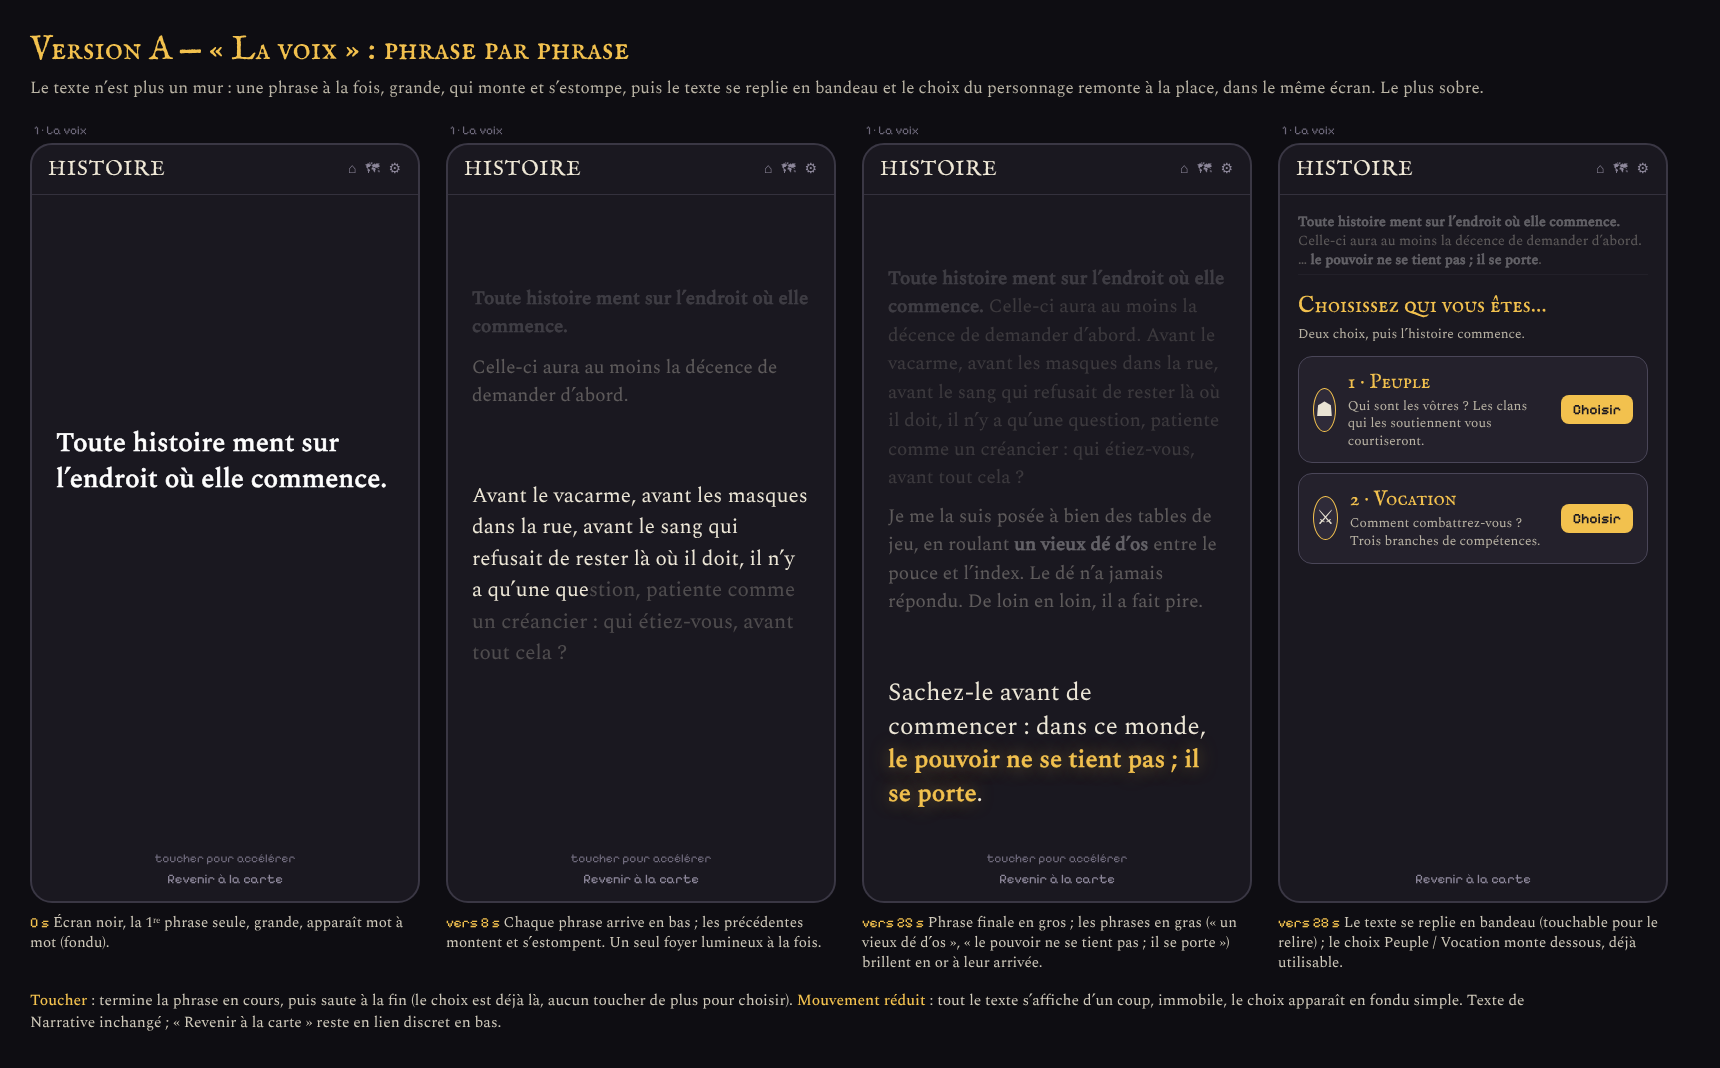
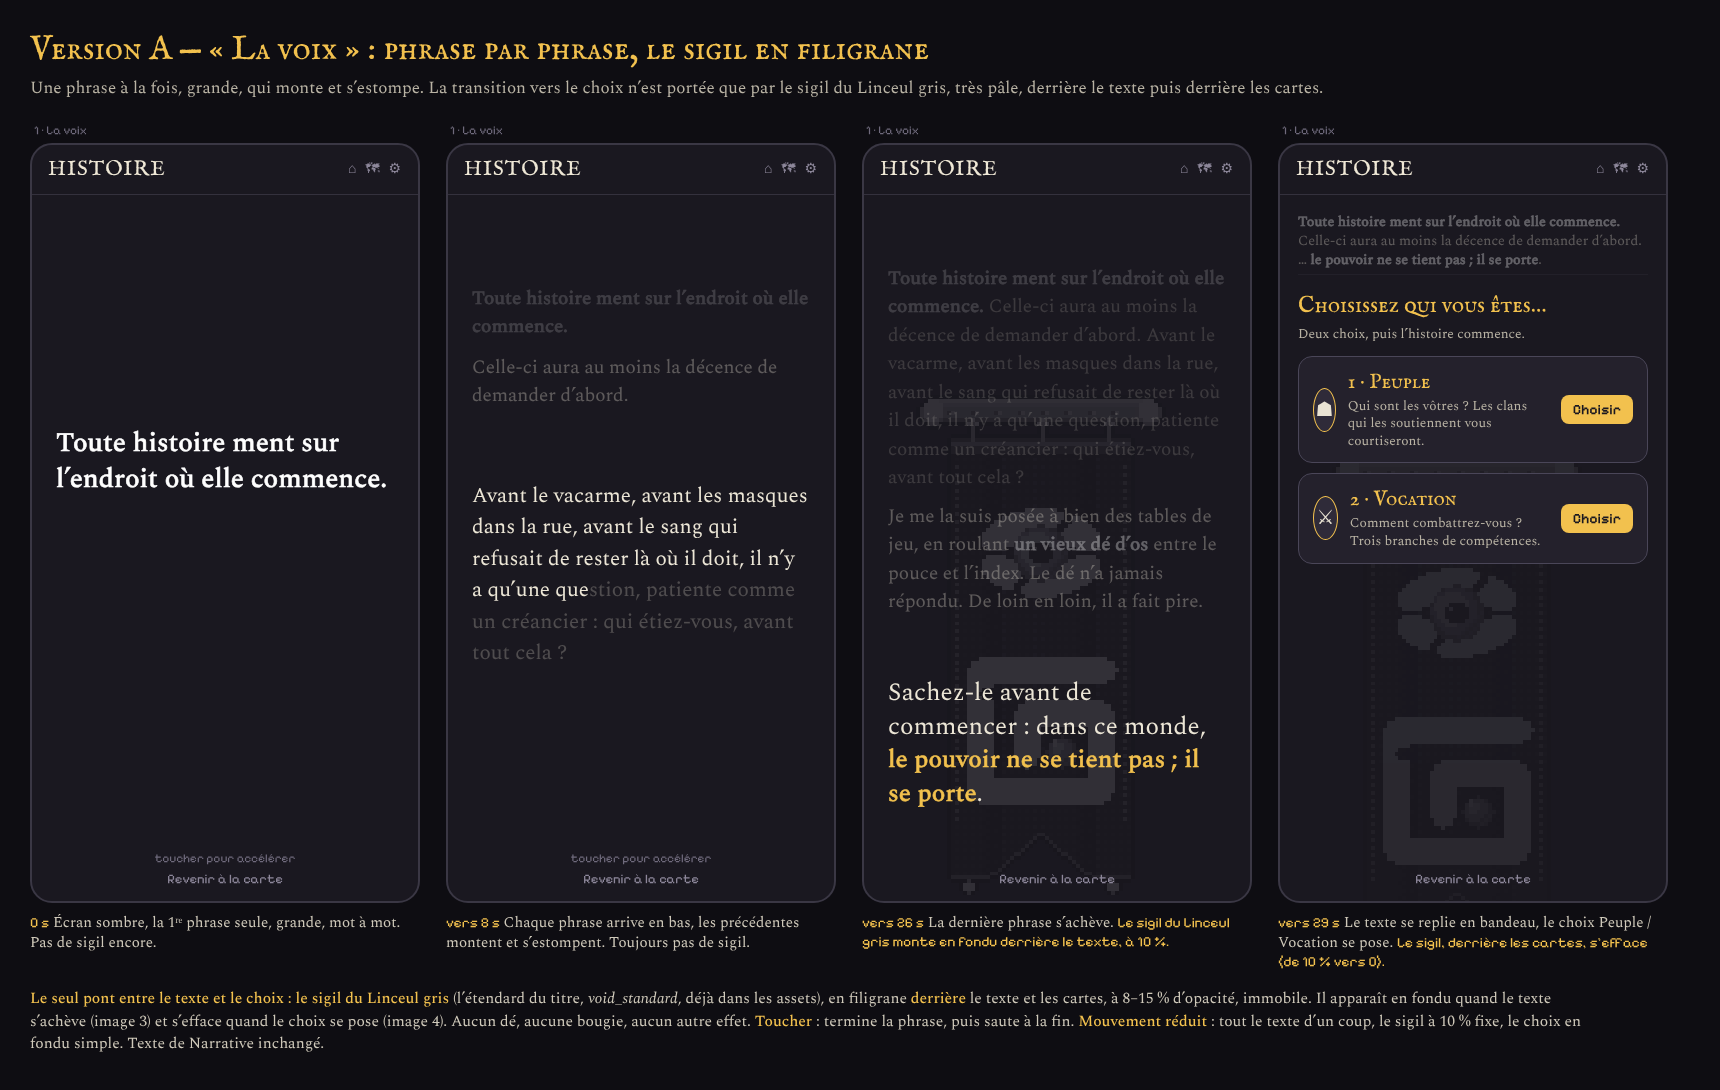
Prologue storyboards round 2: the Shroud's sigil as the only transition (pictures and notes)
Claude-Session: https://claude.ai/code/session_019ETFw2Y7wpHSXWG5mmACty

diff --git a/docs/proposals/prologue-animation.md b/docs/proposals/prologue-animation.md
@@ -1,24 +1,36 @@
-# The opening scene as an animation: three storyboards (UX-2, pictures only)
+# The opening scene as an animation: three storyboards, round 2 (UX-2, pictures only)
 
 The user wants the wall of text of the first scene (`docs/feedback/prologue-text-screen.jpg`)
 replaced by an animation where the text arrives directly and flows into the character choice.
-Pictures: `docs/ux-shots/prologue-animation/storyboard-A.png`, `-B.png`, `-C.png` (four frames each,
-phone width, French). Narrative's words and the bold phrases (un vieux dé d'os; le pouvoir ne se
-tient pas ; il se porte) are unchanged; no shorter lines are needed.
+Round 2 applies the user's feedback: "transition with only the sigil of the Shroud with low
+opacity like a whisper behind." Pictures: `docs/ux-shots/prologue-animation/storyboard-A.png`,
+`-B.png`, `-C.png` (four frames each, phone width, French). Narrative's words and the bold
+phrases are unchanged; no shorter lines are needed.
 
-Common to all: about 28 s if not skipped. A tap finishes the sentence being shown; a second tap
-jumps to the end. The Peuple / Vocation choice is on screen and usable at the end, no extra tap.
-Reduced motion: all the text at once, still, and the choice appears with a simple fade.
-"Revenir à la carte" stays as a quiet link at the bottom.
+**The only transition effect: the Grey Shroud's sigil.** I used the title's own standard
+(`assets/visuals/banners/void_standard.png`, `titleBannerId`: an eye above a spiral), the
+existing mark of the game's title; no new art. If the user means another mark, only the image
+changes. It sits BEHIND the text and the cards, still, desaturated, 8-15 % opacity (10-12 % at
+its peak): it fades in as the last sentence finishes (frame 3) and fades out as the choice
+settles (frame 4). No die, candle or other effect carries the transition.
 
-**A, "La voix".** One large sentence at a time, arriving word by word; earlier sentences rise and
-dim. The bold phrases glow gold as they arrive. At the end the text folds into a strip at the top
-(tap to reread) and the choice rises beneath it. The most sober.
+Common to all: about 29 s if not skipped. A tap finishes the sentence being shown; a second tap
+jumps to the end. The Peuple / Vocation choice is usable at the end, no extra tap. Reduced
+motion: all the text at once, the sigil still at 10 %, the choice with a simple fade.
+"Revenir à la carte" stays as a quiet link.
 
-**B, "Le dé d'os".** The text arrives word by word at the foot of the screen. At "un vieux dé d'os"
-a die rolls across and lands; it stays lit under the last sentence, then splits into the two
-cards, Peuple and Vocation. The most identity; more tuning (the die's path, sound if wanted).
+**A, "La voix".** One large sentence at a time, word by word; earlier sentences rise and dim;
+bold phrases turn gold. At the end the text folds into a strip (tap to reread) and the choice
+rises beneath, over the fading sigil.
 
-**C, "La lueur".** The whole text is already there, in shadow as today; a candle light moves down
-and reveals it line by line (read lines dim, bold phrases turn gold when lit), then widens into
-dawn on the choice. The least animated; keeps free reading.
+**B, "Mot à mot".** The text arrives word by word at the foot of the screen, bold phrases in
+gold. The die is only a word now (no animated object). The sigil rises behind the last
+sentence; the text goes up to a strip and the two cards unfold over the fading sigil.
+
+**C, "Lecture".** The whole text is already there, as today; a soft clarity (a plain fade, no
+shape) descends line by line, read lines dimming. The sigil rises behind the finished text, then
+fades behind the cards. Keeps free reading; the least animated.
+
+**Recommendation: A.** The user asked for the text to arrive directly, and A is the one where
+the text truly arrives (one sentence at a time) while the sigil stays the only other thing on
+screen, so the whisper reads clearly against a nearly empty screen.
